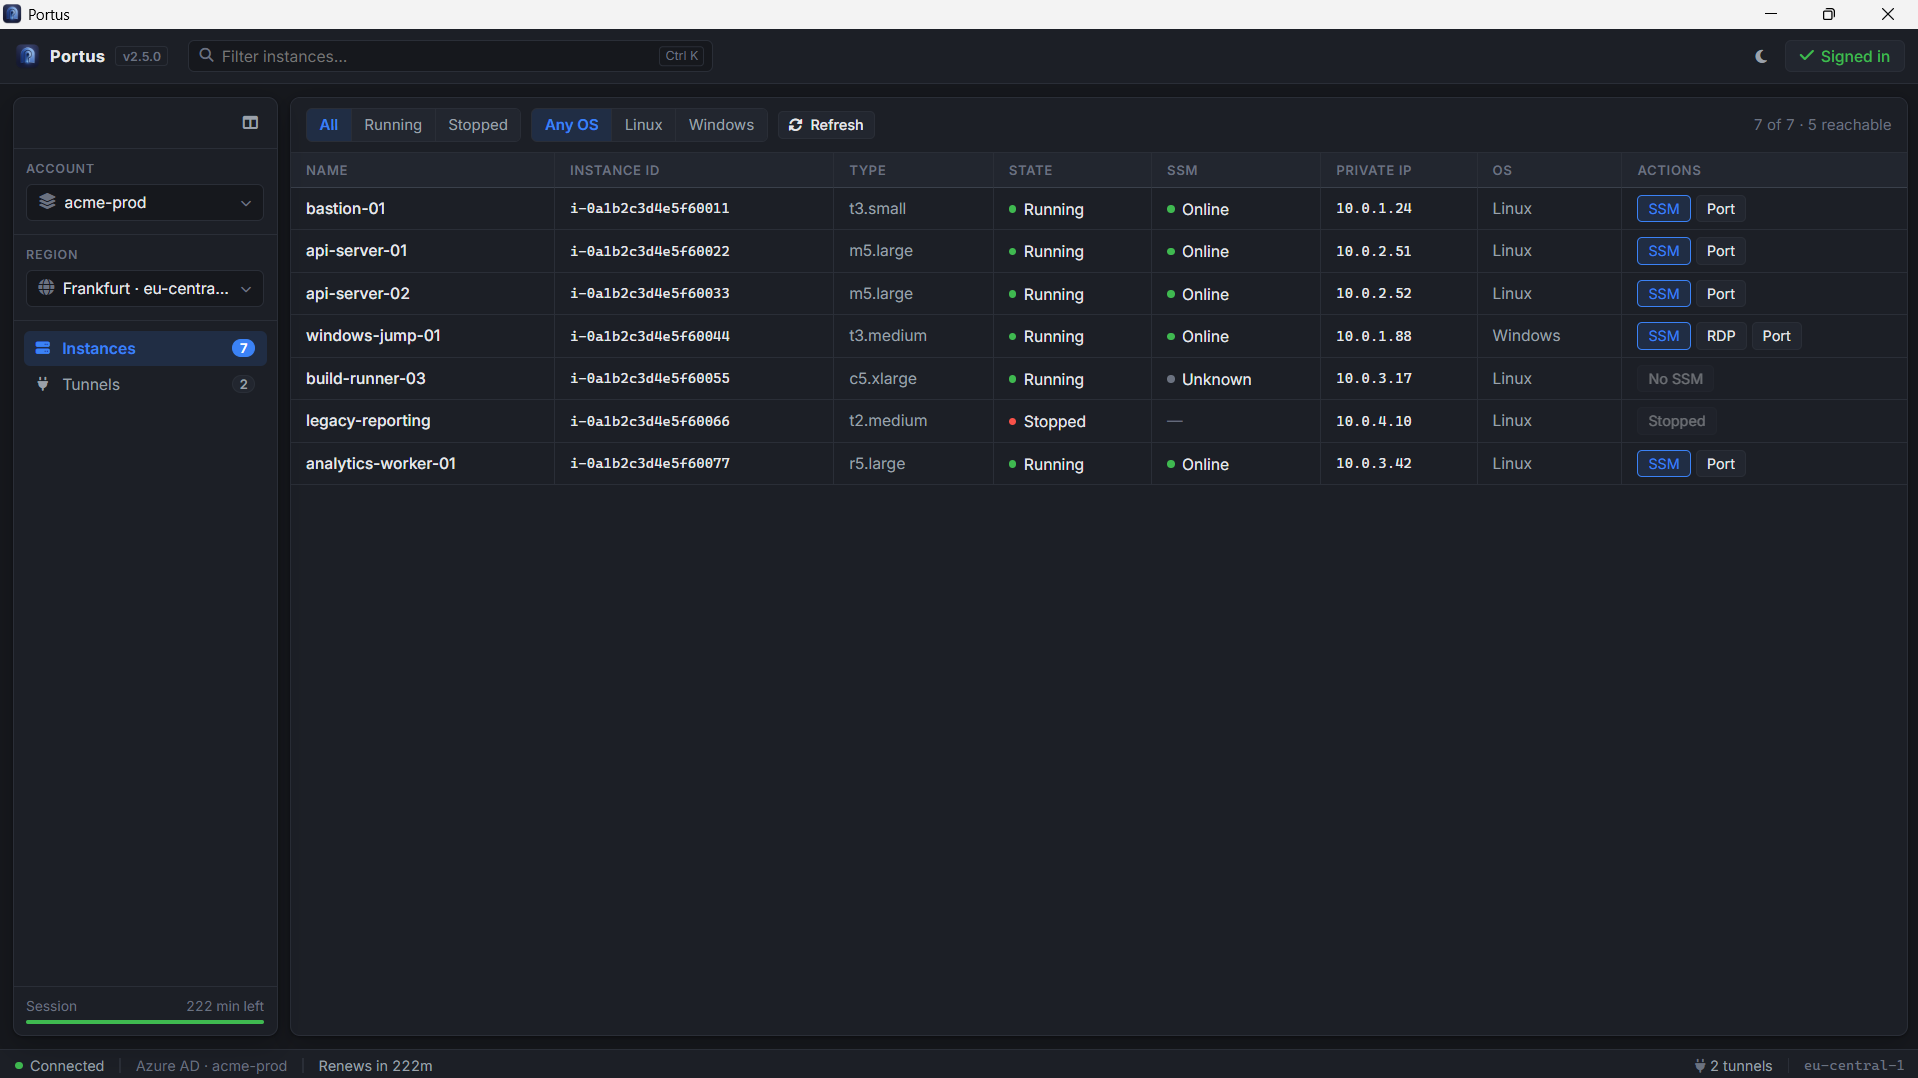
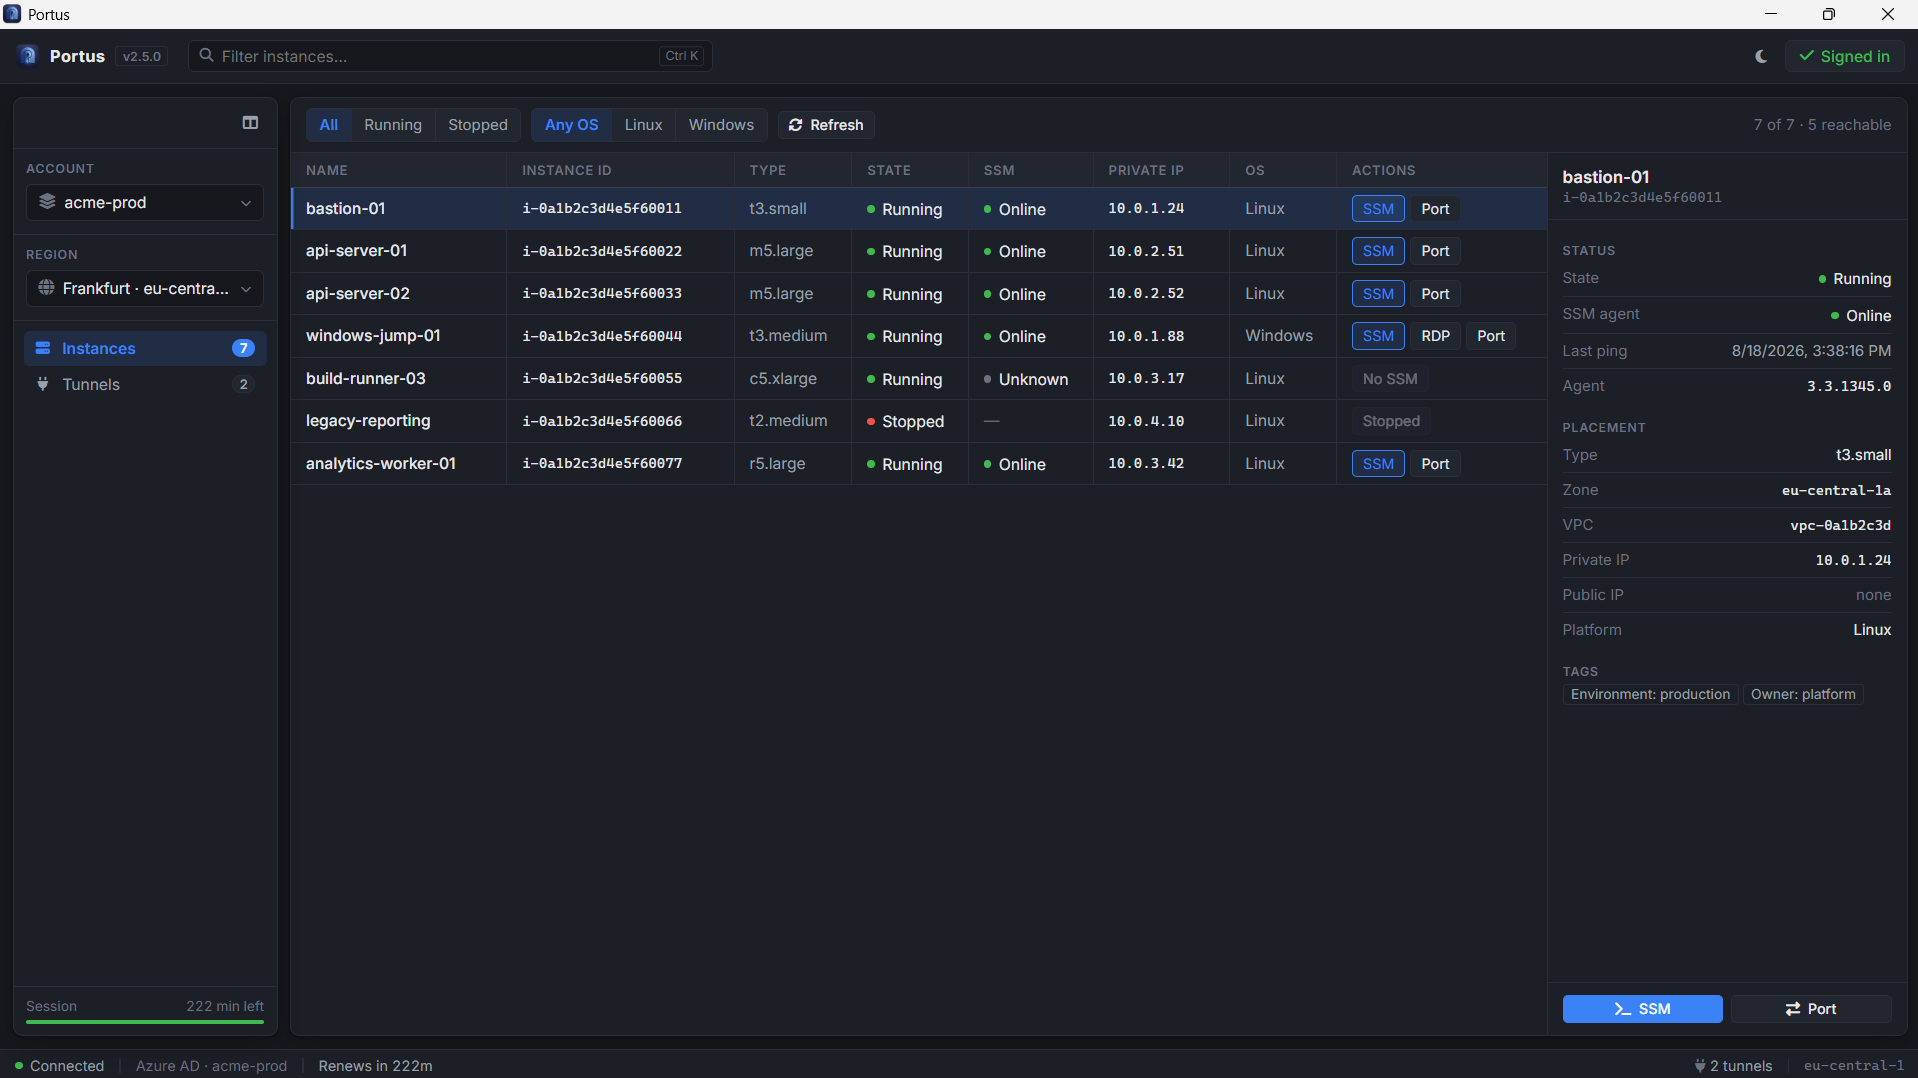
Copy a name, an id or an address from the row
All three are on their way somewhere else most of the time — a ticket, a
terminal, a colleague — and getting them meant opening the detail panel and
selecting text by hand.

The cell is the button now. The copy icon stays hidden until the pointer or the
keyboard is on it, since a glyph on every row of a long table competes with the
values themselves, and clicking one copies without also opening the panel
underneath. A row missing a name or an address still shows a plain dash, because
there is nothing there to copy.

The screenshot is retaken with the detail panel open, which also shows tags
rendering properly.

diff --git a/tests/renderer.test.js b/tests/renderer.test.js
@@ -331,6 +331,53 @@ const openPortDialog = async (app, remote = true) => {
   }
 
   // ---------------------------------------------------------------------------
+  suite.section('the name, ID and address can be copied from the row');
+  {
+    const app = await boot({
+      instances: [
+        instance({ instanceName: 'bastion', instanceId: 'i-0abc123', privateIp: '10.0.1.24' }),
+        instance({ instanceName: null, instanceId: 'i-0def456', privateIp: null })
+      ]
+    });
+    await pick(app, 'keys');
+
+    const copied = app.calls.copied;
+    const rows = app.document.querySelectorAll('#instanceTableWrap tbody tr');
+    const copyButtons = rows[0].querySelectorAll('button[data-copy]');
+
+    suite.check('all three values are copyable', copyButtons.length === 3, copyButtons.length);
+    suite.check('the cell still reads as the value, not as a control',
+      copyButtons[0].textContent.trim() === 'bastion', copyButtons[0].textContent);
+
+    for (const [index, expected] of [[0, 'bastion'], [1, 'i-0abc123'], [2, '10.0.1.24']]) {
+      copyButtons[index].click();
+      await settle(app.window, 40);
+      suite.check(`${expected} reaches the clipboard`,
+        copied[copied.length - 1] === expected, copied[copied.length - 1]);
+    }
+
+    // The row opens the detail panel; copying from it must not also do that
+    suite.check('copying does not select the row',
+      app.portus.selectedInstanceId === null, app.portus.selectedInstanceId);
+
+    rows[0].click();
+    await settle(app.window, 40);
+    suite.check('the row itself still selects', app.portus.selectedInstanceId === 'i-0abc123');
+
+    // Nothing to copy means nothing offered, and the dash stays a plain dash
+    const secondRow = app.document.querySelectorAll('#instanceTableWrap tbody tr')[1];
+    suite.check('a row missing a name and an address offers only the id',
+      secondRow.querySelectorAll('button[data-copy]').length === 1,
+      secondRow.querySelectorAll('button[data-copy]').length);
+    suite.check('and shows a dash where each missing value would be',
+      secondRow.cells[0].textContent.trim() === '—'
+        && secondRow.cells[5].textContent.trim() === '—',
+      [secondRow.cells[0].textContent.trim(), secondRow.cells[5].textContent.trim()]);
+
+    app.window.close();
+  }
+
+  // ---------------------------------------------------------------------------
   suite.section('endpoint discovery fills the port from the endpoint');
   {
     const app = await boot();
@@ -422,7 +469,9 @@ const openPortDialog = async (app, remote = true) => {
     const app = await boot({
       profiles: [profile(XSS, { source: 'credentials' })],
       loginTargets: [],
-      instances: [instance({ instanceName: XSS, instanceId: 'i-xss' })],
+      // The id and the address land inside attributes on the copy control, so a
+      // quote in either would break out of it rather than just render oddly
+      instances: [instance({ instanceName: XSS, instanceId: XSS, privateIp: XSS })],
       endpoints: [{ id: 'x', name: XSS, host: `${XSS}.rds.amazonaws.com`, port: 5432,
                     service: 'postgresql', kind: 'RDS instance', tls: false }],
       update: { available: true, current: '2.3.2', version: '9.9.9',
@@ -444,6 +493,14 @@ const openPortDialog = async (app, remote = true) => {
     await pick(app, XSS);
     suite.check('an instance name is escaped',
       !app.document.querySelector('#instanceTableWrap tbody').querySelector('img'));
+
+    // The value goes into data-copy, title and aria-label as well as the text
+    const copyControl = app.document.querySelector('#instanceTableWrap button[data-copy]');
+    suite.check('a hostile id does not break out of the copy attribute',
+      copyControl && copyControl.dataset.copy === XSS, copyControl && copyControl.dataset.copy);
+    suite.check('and copies back exactly what AWS reported, payload and all',
+      (copyControl.click(), app.calls.copied[app.calls.copied.length - 1] === XSS),
+      app.calls.copied[app.calls.copied.length - 1]);
 
     await openPortDialog(app);
     suite.check('an endpoint name is escaped',

diff --git a/src/renderer.js b/src/renderer.js
@@ -1334,12 +1334,12 @@ class Portus {
         }
 
         row.innerHTML = `
-            <td class="name-cell">${this.escapeHtml(item.instanceName || '—')}</td>
-            <td class="mono">${this.escapeHtml(item.instanceId)}</td>
+            <td class="name-cell">${this.copyableCell(item.instanceName)}</td>
+            <td class="mono">${this.copyableCell(item.instanceId)}</td>
             <td class="muted">${this.escapeHtml(item.instanceType || '')}</td>
             <td>${this.stateCell(item.state)}</td>
             <td>${this.ssmCell(item)}</td>
-            <td class="mono">${this.escapeHtml(item.privateIp || '—')}</td>
+            <td class="mono">${this.copyableCell(item.privateIp)}</td>
             <td class="muted">${isWindows ? 'Windows' : 'Linux'}</td>
             <td class="actions"><div class="row-actions">${actions}</div></td>
         `;
@@ -1352,7 +1352,28 @@ class Portus {
             });
         });
 
+        // Copying is not selecting: without this the row opens the detail panel
+        // underneath, which is not what someone reaching for an ID wanted.
+        row.querySelectorAll('button[data-copy]').forEach(button => {
+            button.addEventListener('click', (e) => {
+                e.stopPropagation();
+                this.copy(button.dataset.copy);
+            });
+        });
+
         return row;
+    }
+
+    // A name, an ID or an address is nearly always on its way somewhere else —
+    // a ticket, a terminal, a colleague. Values the row does not have stay plain
+    // text, since there is nothing to copy.
+    copyableCell(value) {
+        if (!value) return '—';
+
+        const safe = this.escapeHtml(value);
+        return `<button type="button" class="copy-cell" data-copy="${safe}"
+                        title="Copy ${safe}" aria-label="Copy ${safe}">${safe}<i
+                        class="fas fa-copy" aria-hidden="true"></i></button>`;
     }
 
     stateCell(state) {

diff --git a/src/styles.css b/src/styles.css
@@ -429,6 +429,22 @@ tbody td {
   font-size: 12.5px; white-space: nowrap;
 }
 
+/* Instance IDs and private addresses are things people copy, so the cell is the
+   button. The icon only appears on hover or focus — a copy glyph on every row of
+   a long table is noise, and the value itself has to stay the thing you read. */
+.copy-cell {
+  display: inline-flex; align-items: center; gap: 6px;
+  padding: 0; border: 0; background: none;
+  font: inherit; color: inherit; cursor: pointer;
+}
+.copy-cell i {
+  font-size: 10px; color: var(--text-dim);
+  opacity: 0; transition: opacity .12s ease;
+}
+.copy-cell:hover i, .copy-cell:focus-visible i { opacity: 1; }
+.copy-cell:hover { color: var(--accent); }
+.copy-cell:focus-visible { outline: 2px solid var(--accent); outline-offset: 2px; border-radius: 3px; }
+
 /* Column rules. Data grids read far better with them: the eye can follow a
    column down without drifting into the neighbouring one. */
 thead th, tbody td { border-right: 1px solid var(--border); }

diff --git a/tests/helpers/renderer-harness.js b/tests/helpers/renderer-harness.js
@@ -70,6 +70,7 @@ async function bootRenderer(options = {}) {
     mfaAnswers: [],
     roleAnswers: [],
     forgotten: [],
+    copied: [],
     endpointChecks: 0,
     updateChecks: 0,
     ssm: [],
@@ -189,6 +190,13 @@ async function bootRenderer(options = {}) {
   // jsdom has no layout, so scrolling an element into view is not implemented.
   // The combobox calls it whenever the highlighted option moves.
   window.Element.prototype.scrollIntoView = function scrollIntoView() {};
+
+  // jsdom has no clipboard either. Recorded rather than discarded, so a test can
+  // assert what a copy control actually put there.
+  Object.defineProperty(window.navigator, 'clipboard', {
+    value: { writeText: async (text) => { calls.copied.push(text); } },
+    configurable: true
+  });
 
   window.electronAPI = api;
 

diff --git a/README.md b/README.md
@@ -67,7 +67,7 @@ for them on startup and tells you what is missing.
 
 - **Works with however you authenticate to AWS** — IAM Identity Center, Azure AD, `credential_process`, assume-role, static keys or environment credentials. Every profile in `~/.aws` is listed and selectable with no sign-in required first
 - **Sign in from the app** — Identity Center opens your browser and shows the pairing code to confirm; Azure AD opens Microsoft's login page in a window, with passkeys and Windows Hello working and no extra tool to install
-- **EC2 instance browser** — live list per profile/region, searchable
+- **EC2 instance browser** — live list per profile/region, searchable, with the name, instance ID and private IP copyable straight from the row
 - **Region switcher** — starts on the region the profile's config names, and offers only the regions the account has actually enabled, searchable by city or code. Everything follows it: the instance list, endpoint discovery, SSM shells, RDP and port forwards
 - **SSM readiness at a glance** — per-instance agent status (Online / Connection lost / Not managed), so you never click Connect on an instance that can't accept a session
 - **One-click SSM shell** — opens `aws ssm start-session` in a new terminal window
@@ -101,7 +101,8 @@ sign-in covers.
 
 **3. Instances** — the fleet for the selected profile and region, with SSM
 readiness per instance. Connect buttons only appear where Systems Manager can
-actually reach the instance.
+actually reach the instance. Selecting a row opens its details, and the name,
+instance ID and private IP can be copied from the row itself.
 
 ![The instance list showing state, SSM status and connect actions](screenshots/03-instances.png)
 
